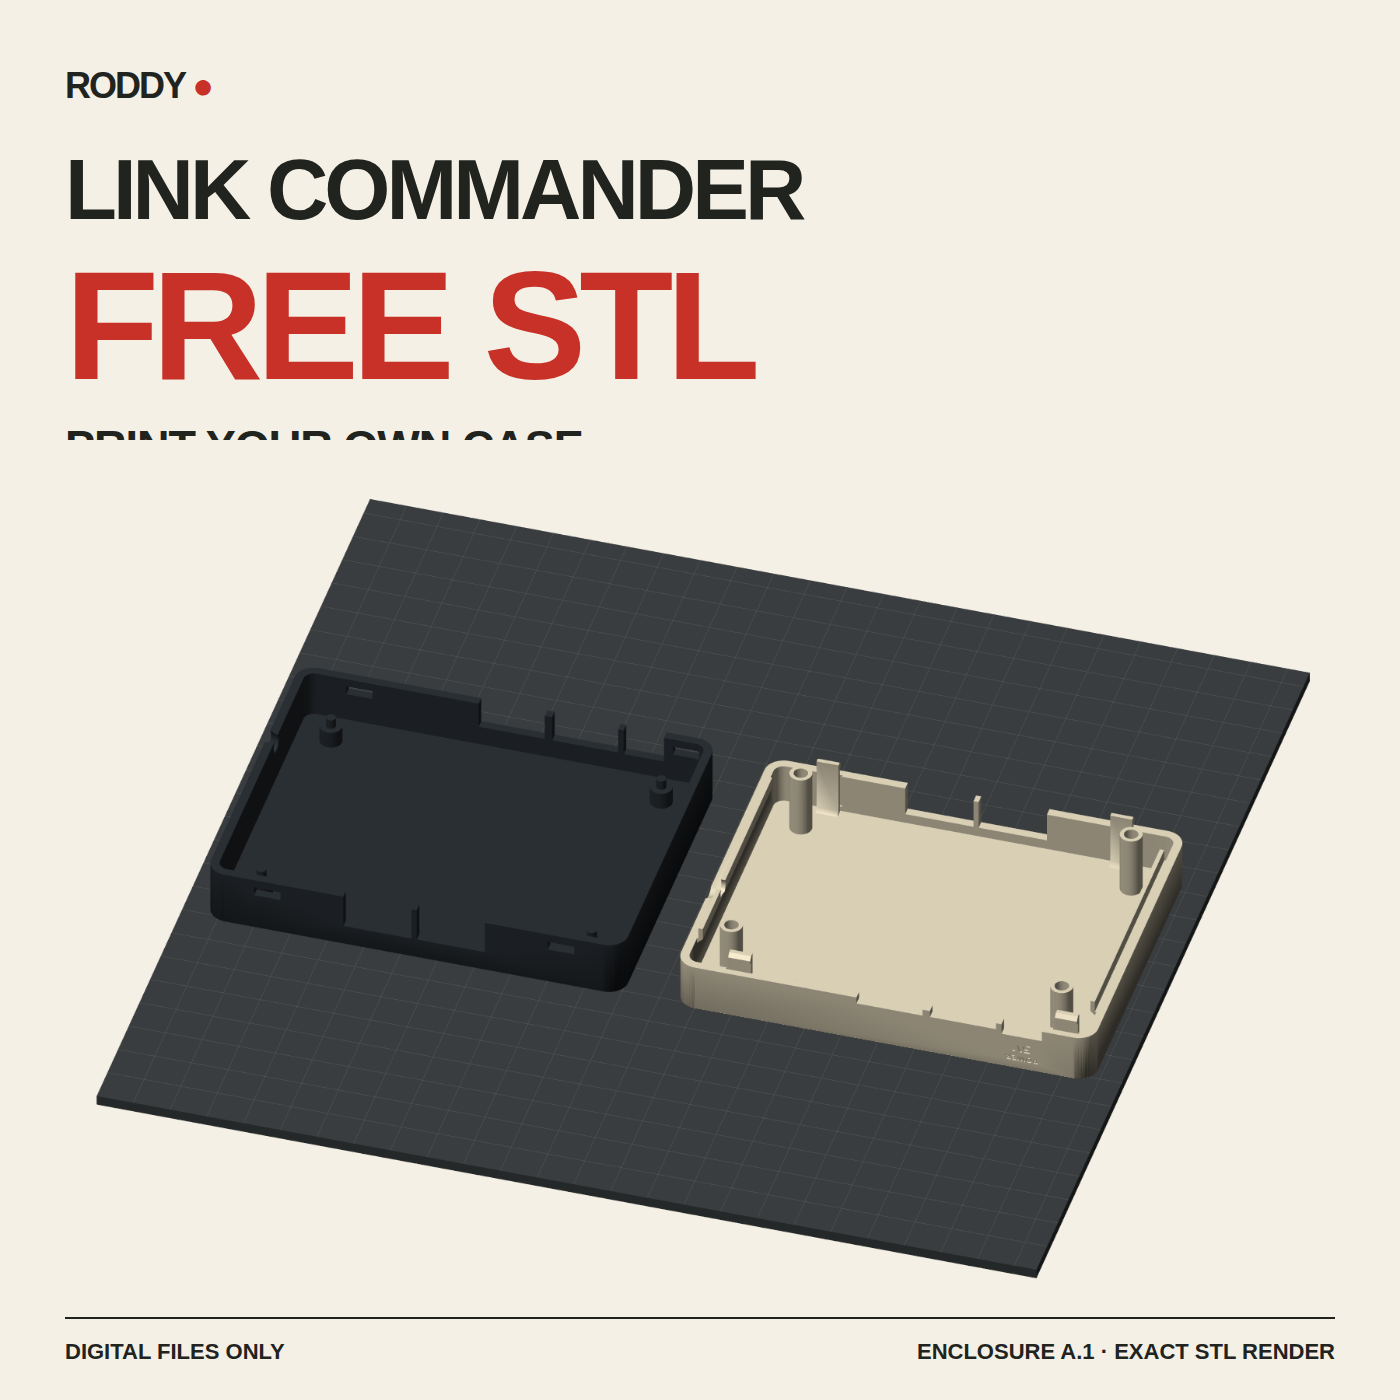
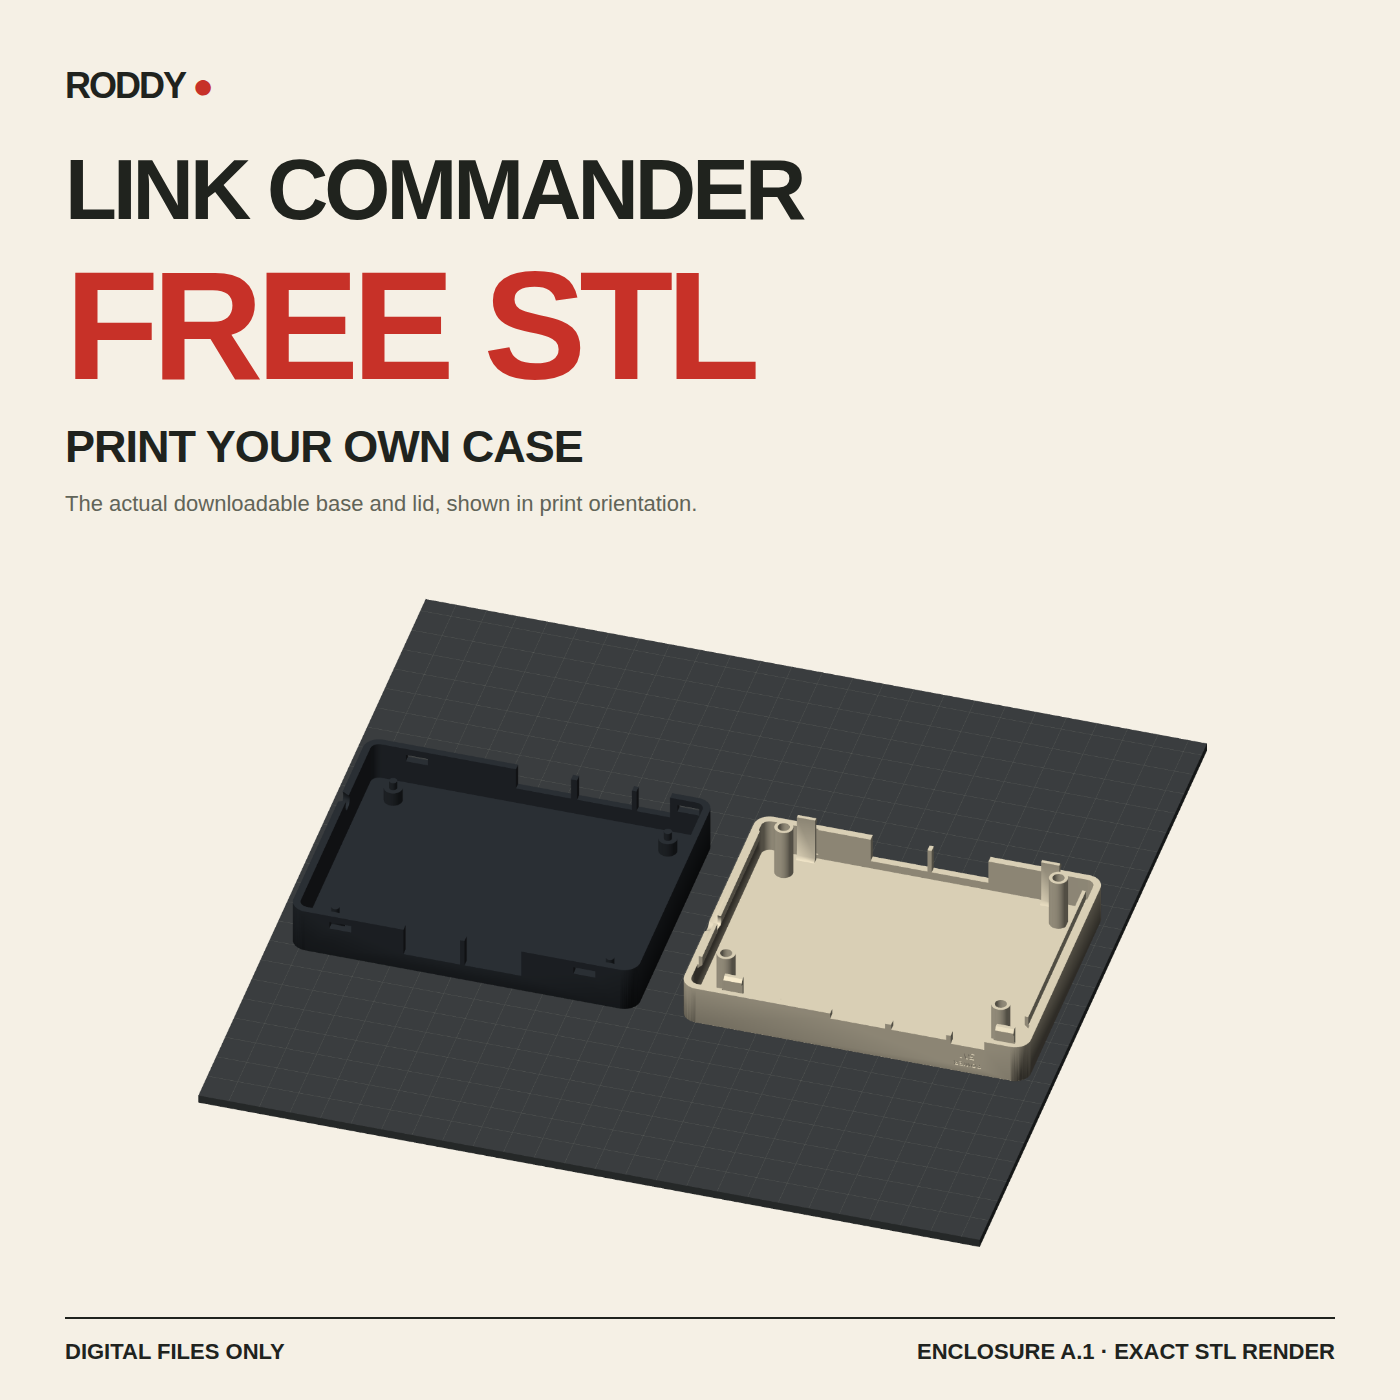
Keep free STL heading clear of the native case render

Changed region(s): [[0.0307, 0.3071, 0.9521, 0.9214]]

diff --git a/artwork/kit-listings-01/link-stl-card.html b/artwork/kit-listings-01/link-stl-card.html
@@ -1,1 +1,1 @@
-<!doctype html><html lang="en"><meta charset="utf-8"><title>Link Commander free STL</title><style>*{box-sizing:border-box}body{margin:0;width:1400px;height:1400px;background:#f5f0e5;color:#20231e;font-family:Arial,sans-serif;padding:65px 65px 0}.brand{font-size:36px;font-weight:900;letter-spacing:-2px}.brand b{color:#c73128}h1{font-size:85px;letter-spacing:-4px;margin:34px 0 0}h2{font-size:154px;letter-spacing:-7px;line-height:1;margin:10px 0;color:#c73128}h3{font-size:45px;margin:18px 0 0;letter-spacing:-1px}img{position:absolute;width:1400px;height:902px;object-fit:contain;left:0;top:440px}.foot{position:absolute;bottom:35px;left:65px;right:65px;border-top:2px solid #20231e;padding-top:20px;display:flex;justify-content:space-between;font-size:22px;font-weight:700}.sub{font-size:22px;color:#616458;margin-top:18px}</style><body><div class="brand">RODDY <b>●</b></div><h1>LINK COMMANDER</h1><h2>FREE STL</h2><h3>PRINT YOUR OWN CASE</h3><p class="sub">The actual downloadable base and lid, shown in print orientation.</p><img src="native/lc-stl-exact.png" alt="Actual Link Commander STL meshes on a print plate"><div class="foot"><span>DIGITAL FILES ONLY</span><span>ENCLOSURE A.1 · EXACT STL RENDER</span></div></body></html>
+<!doctype html><html lang="en"><meta charset="utf-8"><title>Link Commander free STL</title><style>*{box-sizing:border-box}body{margin:0;width:1400px;height:1400px;background:#f5f0e5;color:#20231e;font-family:Arial,sans-serif;padding:65px 65px 0}.brand{font-size:36px;font-weight:900;letter-spacing:-2px}.brand b{color:#c73128}h1{font-size:85px;letter-spacing:-4px;margin:34px 0 0}h2{font-size:154px;letter-spacing:-7px;line-height:1;margin:10px 0;color:#c73128}h3{font-size:45px;margin:18px 0 0;letter-spacing:-1px}img{position:absolute;width:1400px;height:750px;object-fit:contain;left:0;top:550px}.foot{position:absolute;bottom:35px;left:65px;right:65px;border-top:2px solid #20231e;padding-top:20px;display:flex;justify-content:space-between;font-size:22px;font-weight:700}.sub{font-size:22px;color:#616458;margin-top:18px}</style><body><div class="brand">RODDY <b>●</b></div><h1>LINK COMMANDER</h1><h2>FREE STL</h2><h3>PRINT YOUR OWN CASE</h3><p class="sub">The actual downloadable base and lid, shown in print orientation.</p><img src="native/lc-stl-exact.png" alt="Actual Link Commander STL meshes on a print plate"><div class="foot"><span>DIGITAL FILES ONLY</span><span>ENCLOSURE A.1 · EXACT STL RENDER</span></div></body></html>
